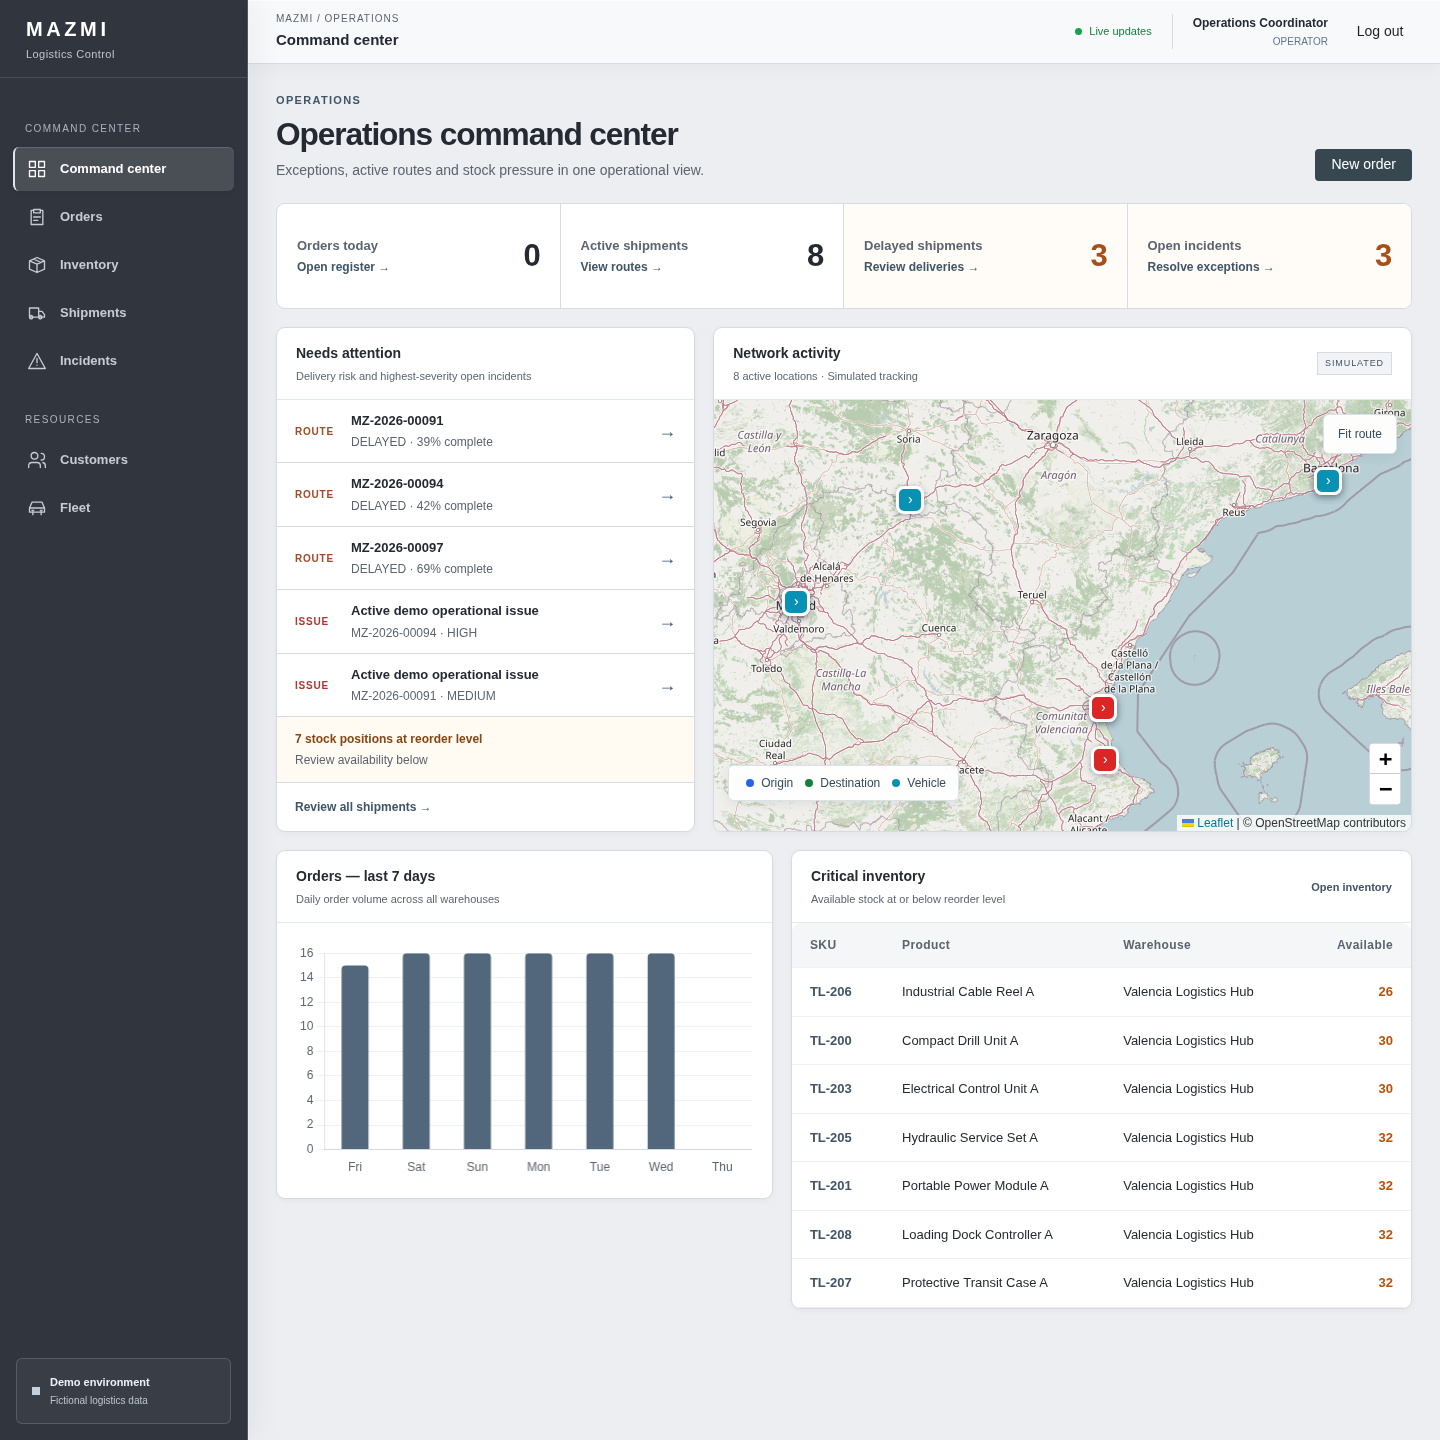
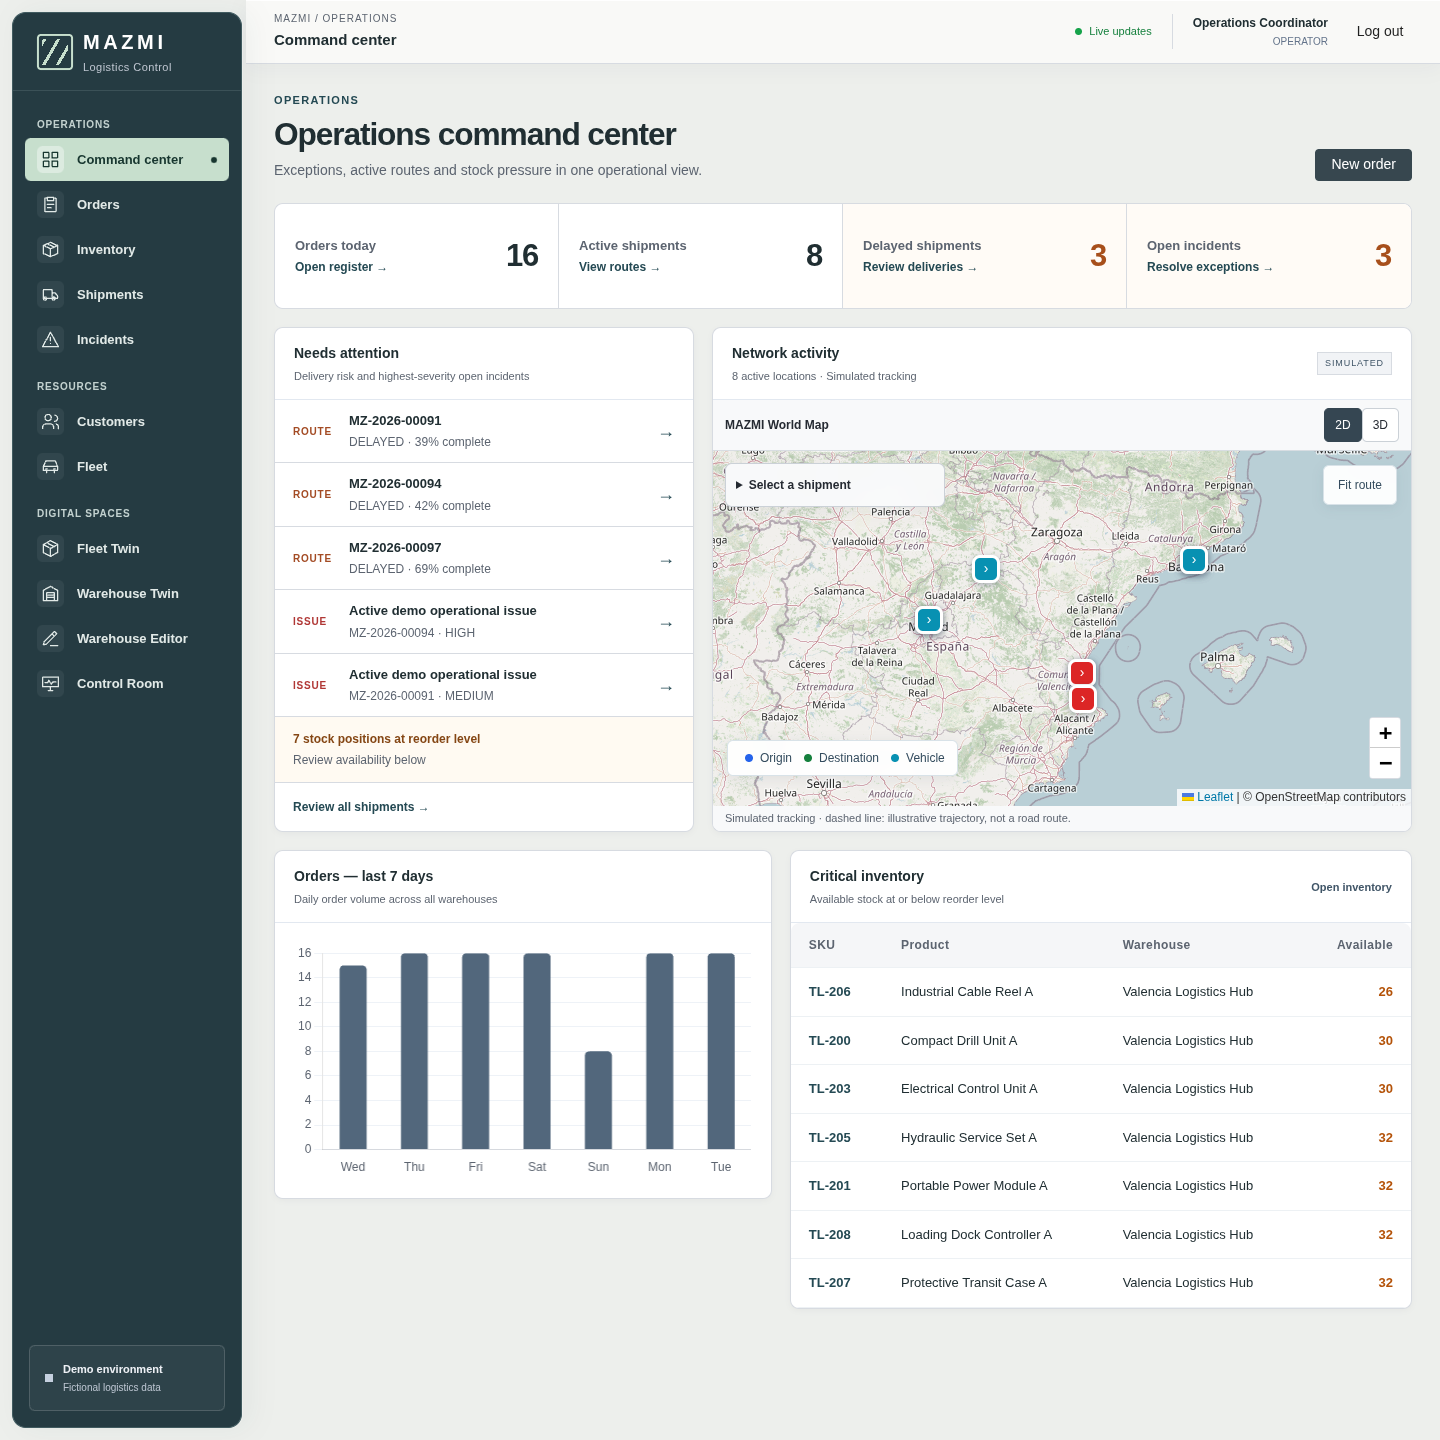
docs(interfaz): publicar la comparación del dock y el recorrido de pedidos

diff --git a/docs/mazmi-glass.md b/docs/mazmi-glass.md
@@ -1,0 +1,17 @@
+# MAZMI Glass: navegación operativa
+
+El dock mantiene visibles los nombres de las rutas. **Operations** agrupa la cola de trabajo, **Resources** reúne clientes y flota, y **Digital spaces** abre los entornos de exploración. El mapa mundial sigue en el dashboard y en el seguimiento de envíos: no es un destino independiente. La administración y el Editor conservan sus condiciones de acceso.
+
+En escritorio, pasar el puntero amplía el icono bajo el cursor y, en menor medida, los adyacentes del mismo grupo. El área pulsable y el texto no se desplazan. El marcador de página, la superficie salvia y `aria-current` identifican la ruta activa sin depender del movimiento.
+
+La adaptación del [Magnetic Dock de Componentry](https://componentry.dev/) es propia: selectores CSS de proximidad entre enlaces y una curva con un pequeño sobrepaso, sin integrar componentes React, un motor físico ni un bucle de animación. El efecto se desactiva con puntero táctil o movimiento reducido. Las superficies de navegación tienen un fondo sólido si no se admite transparencia.
+
+**Repaso en macOS:** recorrer Orders y su detalle con Tab, volver al dashboard y comprobar el marcador activo; reducir la ventana hasta el menú móvil, abrir con Enter y cerrar con Escape. Repetir con Reducir movimiento y Reducir transparencia. Las tablas deben permanecer opacas y los iconos no deben alterar el ancho de las filas.
+
+## Comparación en Chromium
+
+Mismo dashboard, perfil demo y viewport de 1440 × 1440: [antes](screenshots/navigation-before.png) · [después](screenshots/dashboard.png). [Dock móvil con foco de teclado, 390 × 844](screenshots/mobile-dock.png).
+
+Recorrido de pedidos: [listado](screenshots/orders.png) · [detalle](screenshots/order-detail.png) · [formulario](screenshots/order-form.png).
+
+[Ejecución de referencia](https://github.com/LucaMZM/mazmi-logistics-control/actions/runs/44186312513) · [Prueba gráfica de la Fase A](https://github.com/LucaMZM/mazmi-logistics-control/actions/runs/44186886023).

diff --git a/README.md b/README.md
@@ -51,6 +51,8 @@ Los datos del perfil demo son ficticios. Las posiciones de los envíos se calcul
 
 ## Capturas
 
+[Guía de la navegación MAZMI Glass](docs/mazmi-glass.md).
+
 ### Control Room 3D
 
 La sala de control isométrica une los indicadores reales de operaciones y el acceso a Fleet Twin, World Map y Warehouse Twin. Se abre desde **Control Room** en el menú lateral o directamente en `/control-room`. Los monitores 3D leen las mismas métricas verificadas de `/api/v1/dashboard`; no representan cámaras, oficinas reales ni telemetría adicional.
